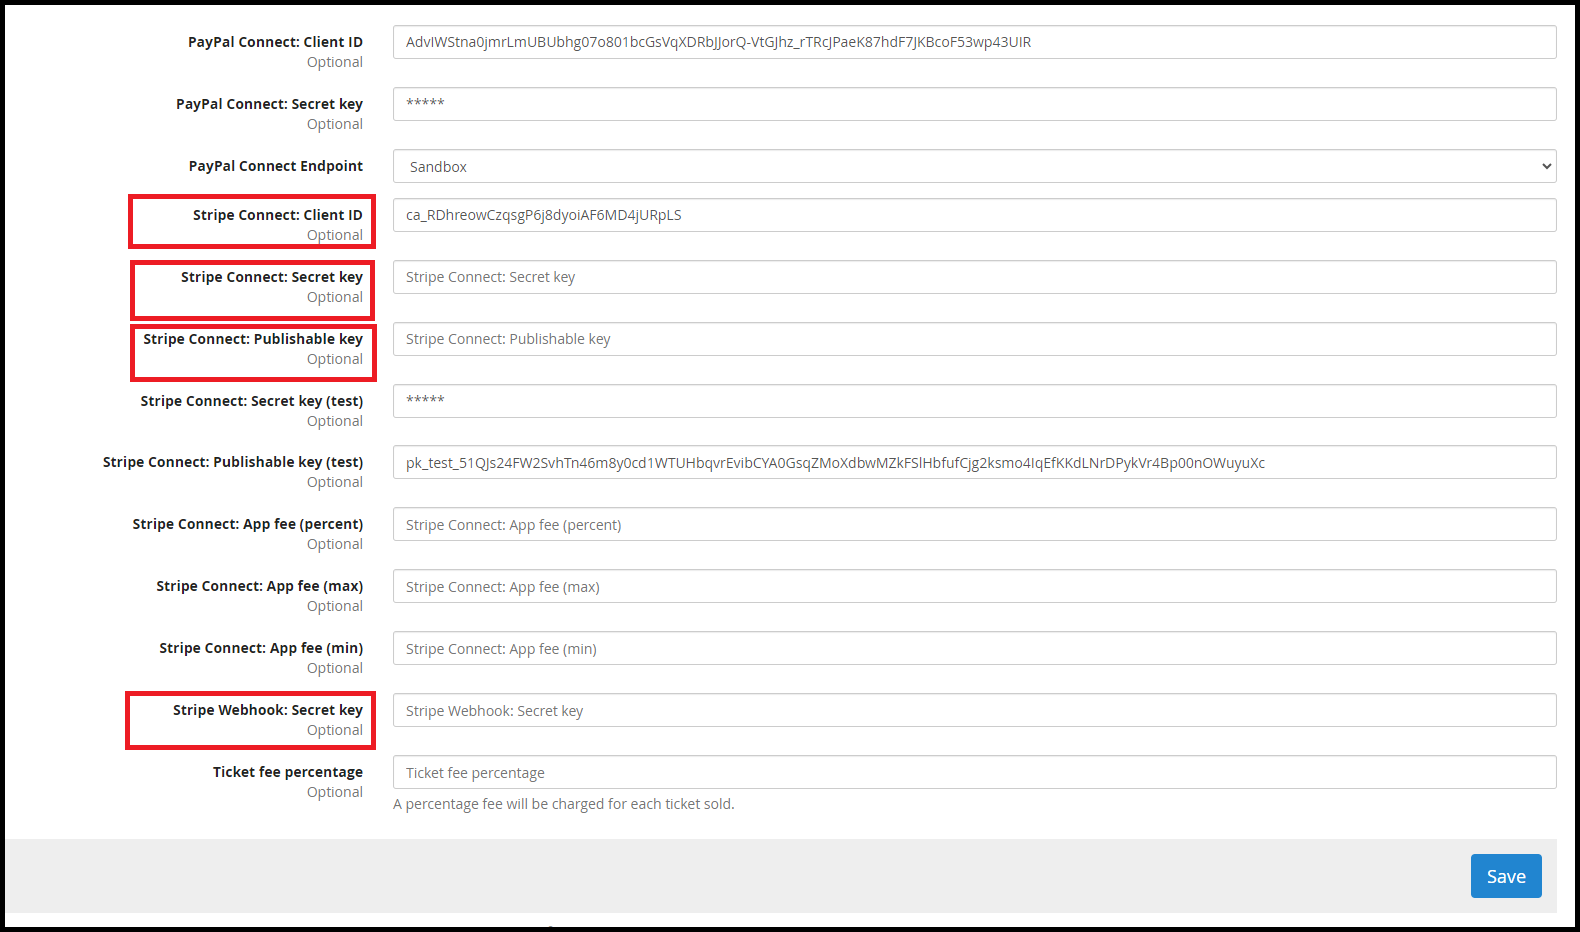
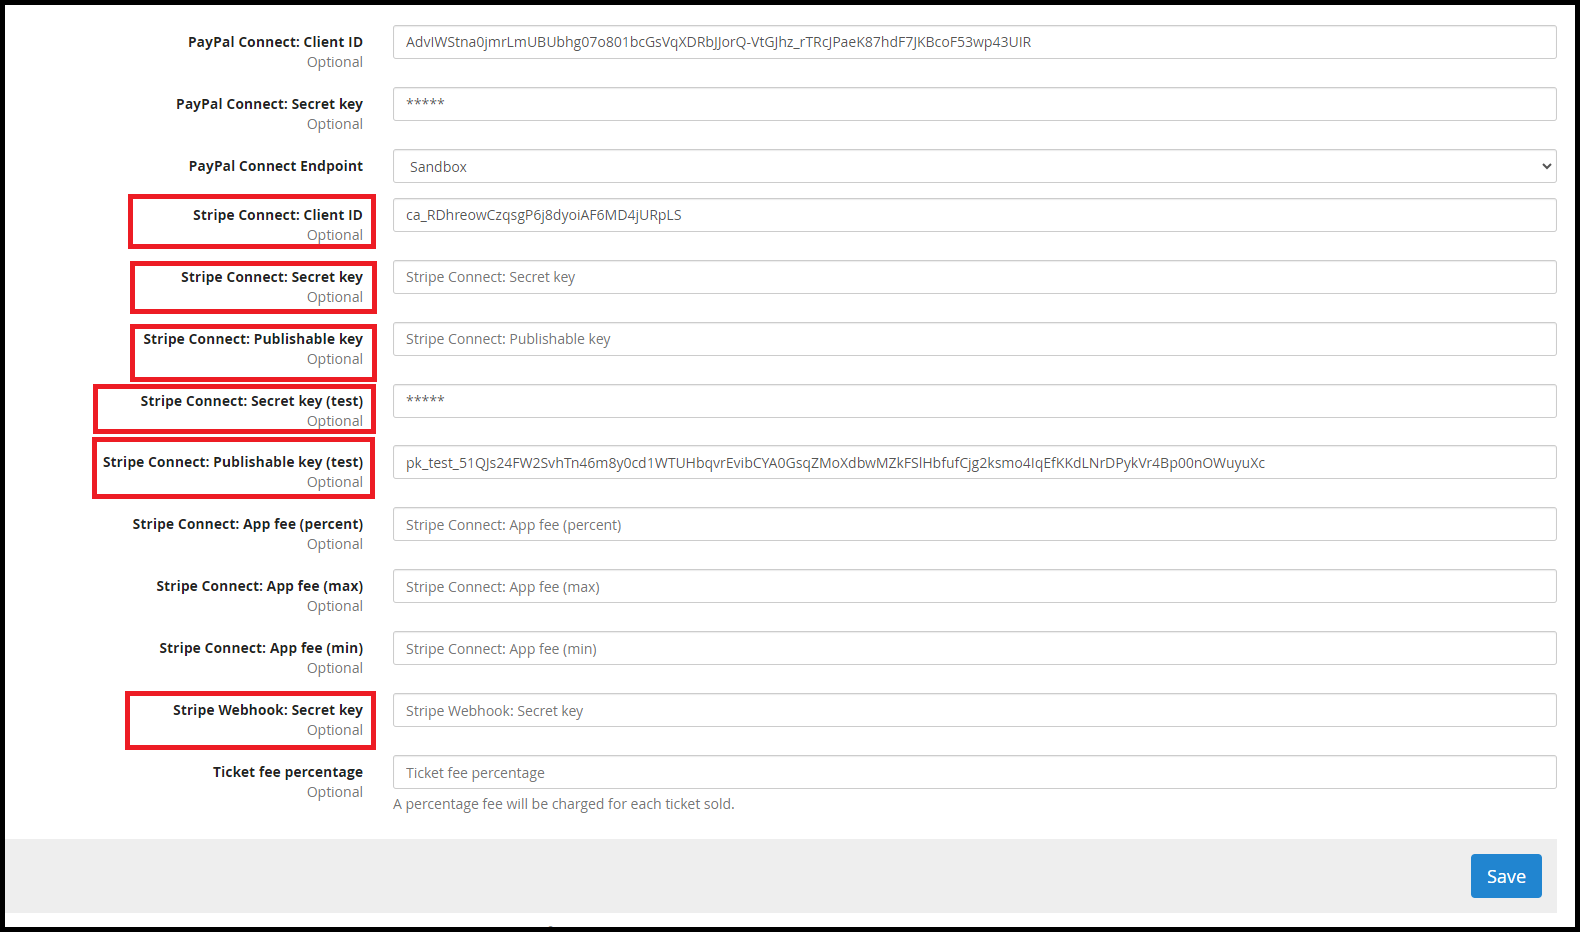
update guideline: add setting detail for test/live mode

Changed region(s): [[0.062, 0.4045, 0.2481, 0.5601], [0.093, 0.3112, 0.2481, 0.3423], [0.031, 0.4979, 0.062, 0.529]]

diff --git a/setting_guideline/Stripe Setting Guideline.md b/setting_guideline/Stripe Setting Guideline.md
@@ -128,8 +128,10 @@ You can also refer to the [Stripe documentation](https://docs.stripe.com/webhook
 Fill in the following fields:
 
 - **Stripe Connect: Client ID**: `[Client ID from Step 1]`
-- **Stripe Connect: Secret key**: `[Secret key from Step 2 (live or test)]`
-- **Stripe Connect: Publishable key**: `[Publishable key from Step 2 (live or test)]`
+- **Stripe Connect: Secret key**: `[Secret key from Step 2 (live mode)]`
+- **Stripe Connect: Publishable key**: `[Publishable key from Step 2 (live mode)]`
+- **Stripe Connect: Secret key (test)**: `[Secret key from Step 2 (test mode)]`
+- **Stripe Connect: Publishable key (test)**: `[Publishable key from Step 2 (test mode)]`
 - **Stripe Webhook: Secret key**: `[Webhook secret key from Step 3]`
 - Click **Save**
 
